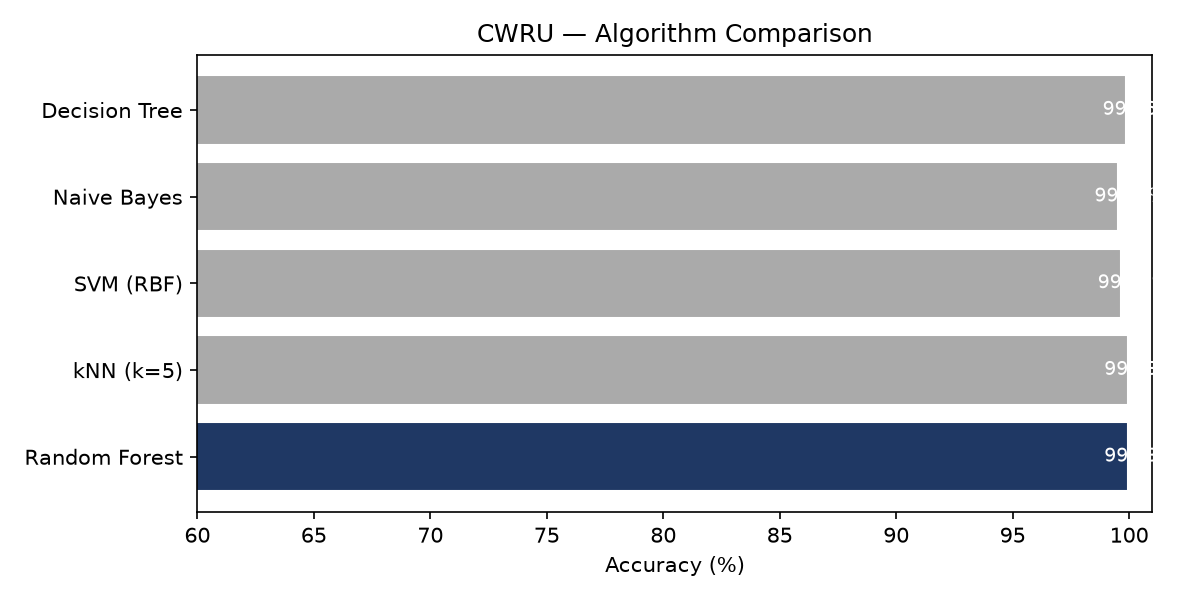
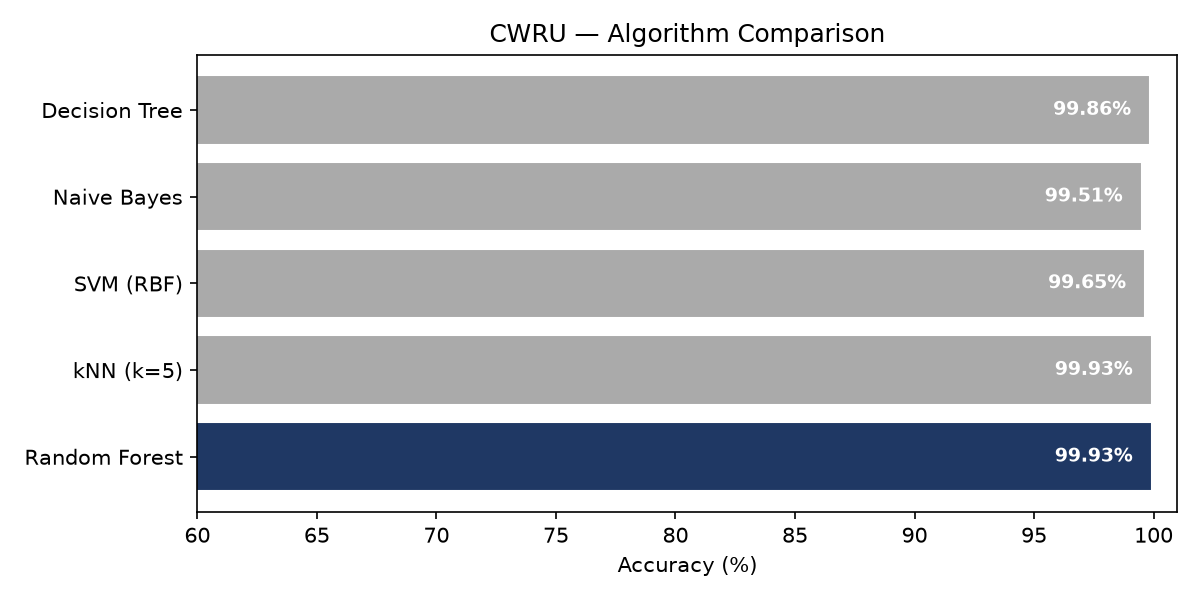
Fix SHAP summary plot and figure labels

diff --git a/src/Claude outputs/shap_explain-1.py b/src/Claude outputs/shap_explain-1.py
@@ -1,0 +1,76 @@
+import joblib
+import pandas as pd
+import numpy as np
+import shap
+import matplotlib.pyplot as plt
+import os
+
+# ── Config ─────────────────────────────────────────────
+FEAT_COLS = ["rms","peak","kurtosis","skewness","std","crest_factor","dom_freq","spec_centroid","spec_energy","band_low","band_mid"]
+LABELS    = {0: "Normal", 1: "Degraded", 2: "Fault"}
+
+# 'lab' = deployed models (trained on lab data). 'cwru' = old benchmark data.
+DATASET = "lab"
+CSV = {"lab": "data/lab_features.csv", "cwru": "data/cwru_features.csv"}[DATASET]
+
+# ── Load models + data ─────────────────────────────────
+rf     = joblib.load("models/rf_model.pkl")
+scaler = joblib.load("models/scaler.pkl")
+df     = pd.read_csv(CSV)
+
+X = scaler.transform(df[FEAT_COLS].values)
+y = df["label"].values
+
+# ── SHAP TreeExplainer ─────────────────────────────────
+print("Initialising SHAP TreeExplainer...")
+explainer   = shap.TreeExplainer(rf)
+shap_values = explainer.shap_values(X)
+print("✅ SHAP values computed")
+
+# ── Global feature importance plot ─────────────────────
+os.makedirs("outputs", exist_ok=True)
+
+plt.figure(figsize=(10, 6))
+# shap_values has shape (samples, features, classes); plot the Fault class (index 2)
+shap.summary_plot(shap_values[:, :, 2], X, feature_names=FEAT_COLS, show=False)
+plt.title("Global SHAP Summary — Fault (Lab)")
+plt.tight_layout()
+plt.savefig("outputs/shap_global_summary.png", dpi=150)
+plt.close()
+print("✅ Global SHAP summary saved → outputs/shap_global_summary.png")
+
+# ── Local explanation — one Fault sample ───────────────
+fault_idx = np.where(y == 2)[0][0]
+x_sample  = X[fault_idx:fault_idx+1]
+pred      = rf.predict(x_sample)[0]
+prob      = rf.predict_proba(x_sample)[0]
+
+print(f"\nSample prediction: {LABELS[pred]} "f"({round(prob[pred]*100, 1)}% confidence)")
+
+# Get SHAP values for single sample
+shap_single = explainer(x_sample)
+
+plt.figure(figsize=(10, 5))
+shap.waterfall_plot(
+    shap.Explanation(
+        values=shap_single.values[0, :, pred],
+        base_values=shap_single.base_values[0, pred],
+        data=x_sample[0],
+        feature_names=FEAT_COLS
+    ),
+    show=False
+)
+plt.tight_layout()
+plt.savefig("outputs/shap_local_fault.png", dpi=150, bbox_inches="tight")
+plt.close()
+print("✅ Local SHAP waterfall saved → outputs/shap_local_fault.png")
+
+# ── Top features per class ─────────────────────────────
+print("\nTop 5 features per class (mean |SHAP|):")
+shap_all = explainer(X)
+for i, cls in enumerate(["Normal","Degraded","Fault"]):
+    mean_abs = np.abs(shap_all.values[:, :, i]).mean(axis=0)
+    top_idx  = np.argsort(mean_abs)[::-1][:5]
+    print(f"\n{cls}:")
+    for rank, idx in enumerate(top_idx, 1):
+        print(f"  {rank}. {FEAT_COLS[idx]}: {round(mean_abs[idx], 4)}")

diff --git a/src/Claude outputs/generate_figures.py b/src/Claude outputs/generate_figures.py
@@ -1,0 +1,50 @@
+import pandas as pd
+import matplotlib.pyplot as plt
+import numpy as np
+
+# ── 1. Class distribution charts ──────────────────────
+for name, path in [("CWRU", "data/cwru_features.csv"), 
+                    ("Lab", "data/lab_features.csv")]:
+    df = pd.read_csv(path)
+    counts = df['label'].value_counts().sort_index()
+    labels = ['Normal', 'Degraded', 'Fault']
+    colors = ['#1D9E75', '#BA7517', '#A32D2D']
+    
+    plt.figure(figsize=(7, 4))
+    bars = plt.bar(labels, counts.values, color=colors, edgecolor='white')
+    for bar, val in zip(bars, counts.values):
+        plt.text(bar.get_x() + bar.get_width()/2, bar.get_height() + 10,
+                str(val), ha='center', fontsize=10)
+    plt.title(f'{name} Dataset — Class Distribution')
+    plt.ylabel('Number of Feature Windows')
+    plt.tight_layout()
+    plt.savefig(f'outputs/{name.lower()}_class_distribution.png', dpi=150)
+    plt.close()
+    print(f"✅ {name} class distribution saved")
+
+# ── 2. Algorithm comparison charts ────────────────────
+for name, path in [("CWRU", "outputs/cwru_algorithm_comparison.csv"),
+                    ("Lab", "outputs/lab_algorithm_comparison.csv")]:
+    try:
+        df = pd.read_csv(path)
+        colors = ['#1F3864' if i == 0 else '#AAAAAA' 
+                  for i in range(len(df))]
+        
+        plt.figure(figsize=(8, 4))
+        bars = plt.barh(df['Algorithm'], df['Accuracy(%)'], 
+                       color=colors, edgecolor='white')
+        for bar, val in zip(bars, df['Accuracy(%)']):
+            plt.text(val - 0.8, bar.get_y() + bar.get_height()/2,
+                    f'{val:.2f}%', va='center', ha='right',
+                    color='white', fontsize=9, fontweight='bold')
+        plt.xlabel('Accuracy (%)')
+        plt.title(f'{name} — Algorithm Comparison')
+        plt.xlim(60, 101)
+        plt.tight_layout()
+        plt.savefig(f'outputs/{name.lower()}_algorithm_comparison.png', dpi=150)
+        plt.close()
+        print(f"✅ {name} algorithm comparison chart saved")
+    except:
+        print(f"⚠ {name} algorithm comparison CSV not found — skip")
+
+print("\n✅ All figures generated → outputs/")

diff --git a/src/generate_figures.py b/src/generate_figures.py
@@ -34,8 +34,9 @@ for name, path in [("CWRU", "outputs/cwru_algorithm_comparison.csv"),
         bars = plt.barh(df['Algorithm'], df['Accuracy(%)'], 
                        color=colors, edgecolor='white')
         for bar, val in zip(bars, df['Accuracy(%)']):
-            plt.text(val - 1, bar.get_y() + bar.get_height()/2,
-                    f'{val}%', va='center', color='white', fontsize=9)
+            plt.text(val - 0.8, bar.get_y() + bar.get_height()/2,
+                    f'{val:.2f}%', va='center', ha='right',
+                    color='white', fontsize=9, fontweight='bold')
         plt.xlabel('Accuracy (%)')
         plt.title(f'{name} — Algorithm Comparison')
         plt.xlim(60, 101)

diff --git a/src/shap_explain.py b/src/shap_explain.py
@@ -31,7 +31,9 @@ print("✅ SHAP values computed")
 os.makedirs("outputs", exist_ok=True)
 
 plt.figure(figsize=(10, 6))
-shap.summary_plot(shap_values, X, feature_names=FEAT_COLS, class_names=["Normal","Degraded","Fault"], show=False)
+# shap_values has shape (samples, features, classes); plot the Fault class (index 2)
+shap.summary_plot(shap_values[:, :, 2], X, feature_names=FEAT_COLS, show=False)
+plt.title("Global SHAP Summary — Fault (Lab)")
 plt.tight_layout()
 plt.savefig("outputs/shap_global_summary.png", dpi=150)
 plt.close()
